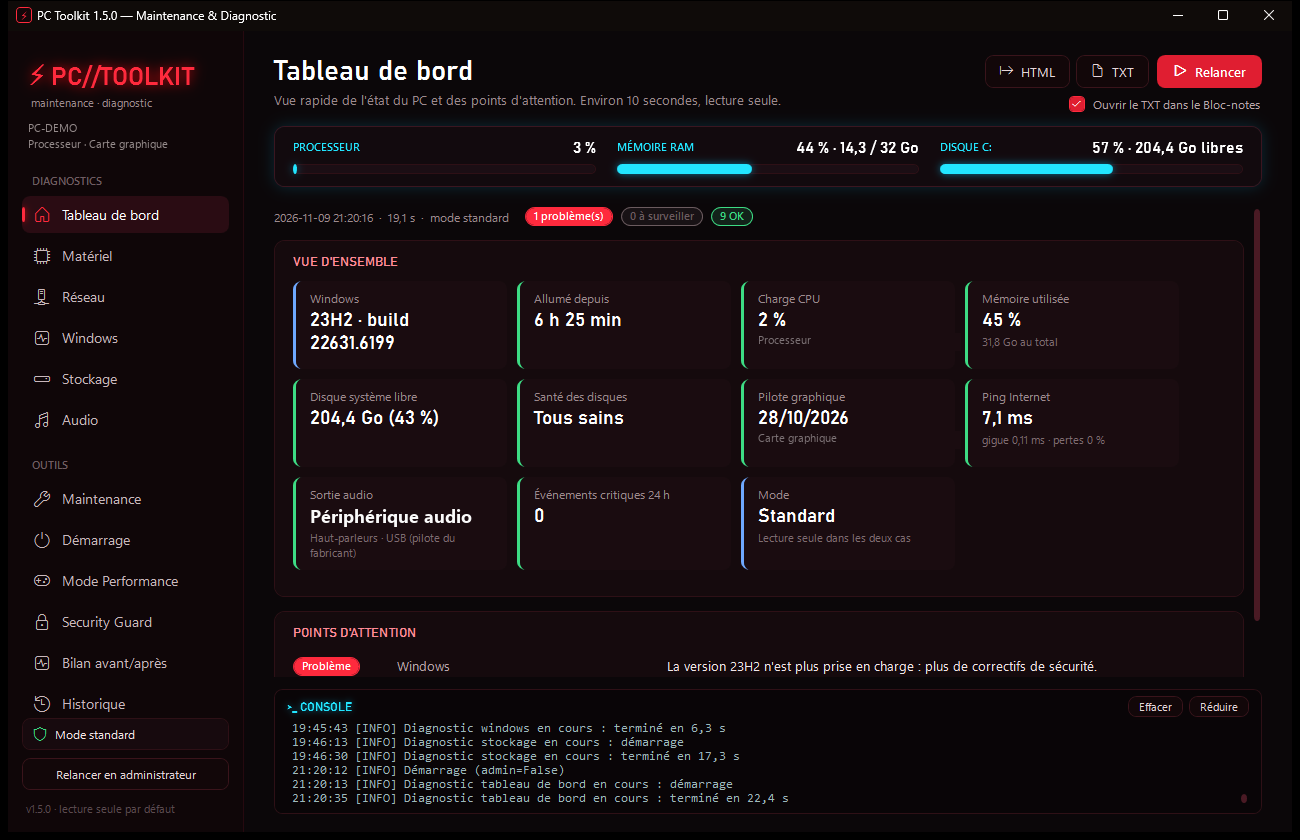
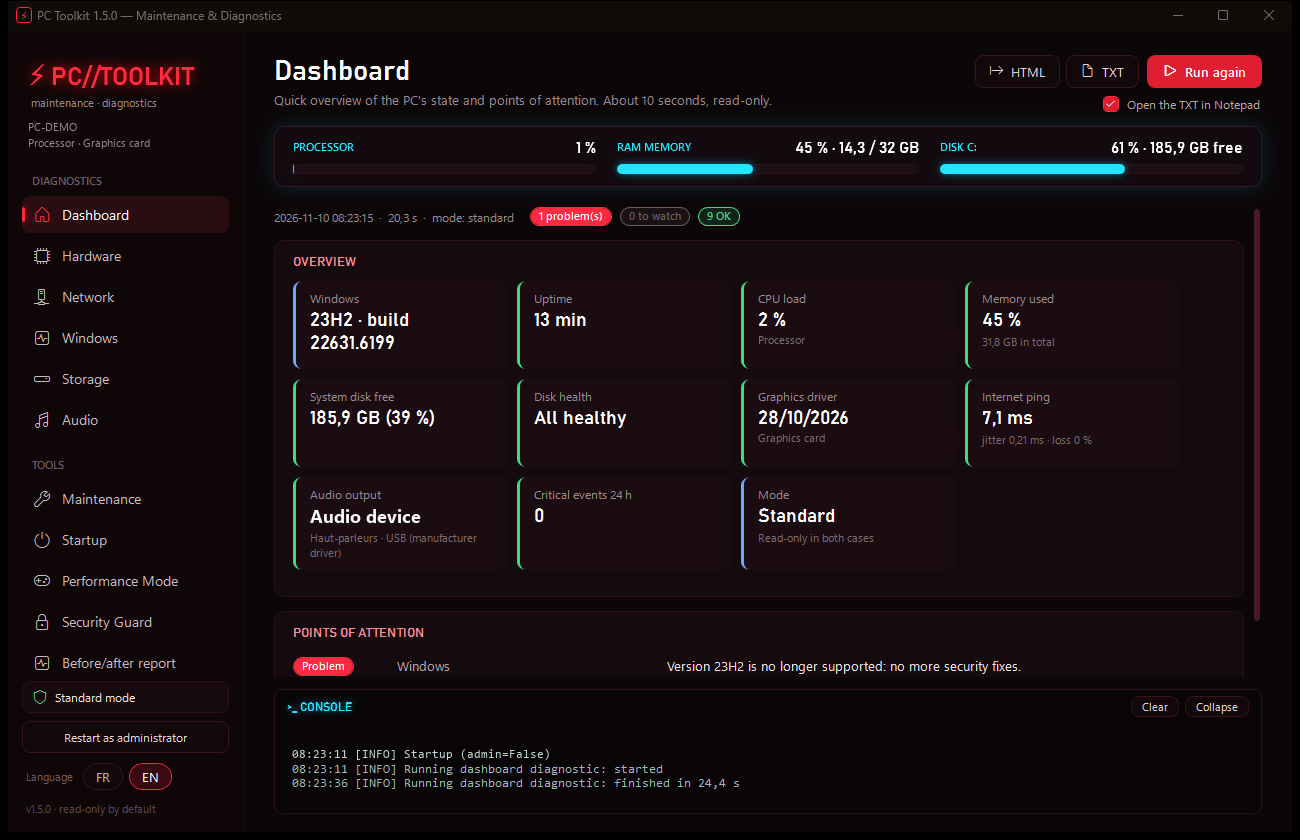
docs: GIF et captures en anglais (dist-launch), versions françaises en *.fr.*
fix(i18n): Get-Text ignorait un unique argument $false ou 0 ({0} non remplacé), test ajouté, 166 tests

diff --git a/dist-launch/LISEZMOI.md b/dist-launch/LISEZMOI.md
@@ -15,3 +15,5 @@ Médias prêts à glisser-déposer dans les publications (voir `LAUNCH_KIT.md` e
 **Anonymisation :** le nom du PC, les modèles de processeur, de carte graphique et de périphérique audio ont été remplacés par des libellés génériques (`PC-DEMO`, « Processeur », « Carte graphique », « Périphérique audio »). Les mesures de charge (CPU, RAM, disque) et les horodatages sont réels. Si tu refais les visuels, relis chaque image avant de la publier.
 
 Ce dossier n'est pas inclus dans le zip distribué (`Build-Zip.ps1` n'embarque que les fichiers listés).
+
+**Langues :** les fichiers ci-dessus sont en **anglais** (interface lancée avec `PCTOOLKIT_LANG=en`) ; les versions françaises portent le suffixe `.fr` (`demo.fr.gif`, `ui-dashboard.fr.png`, etc.).
